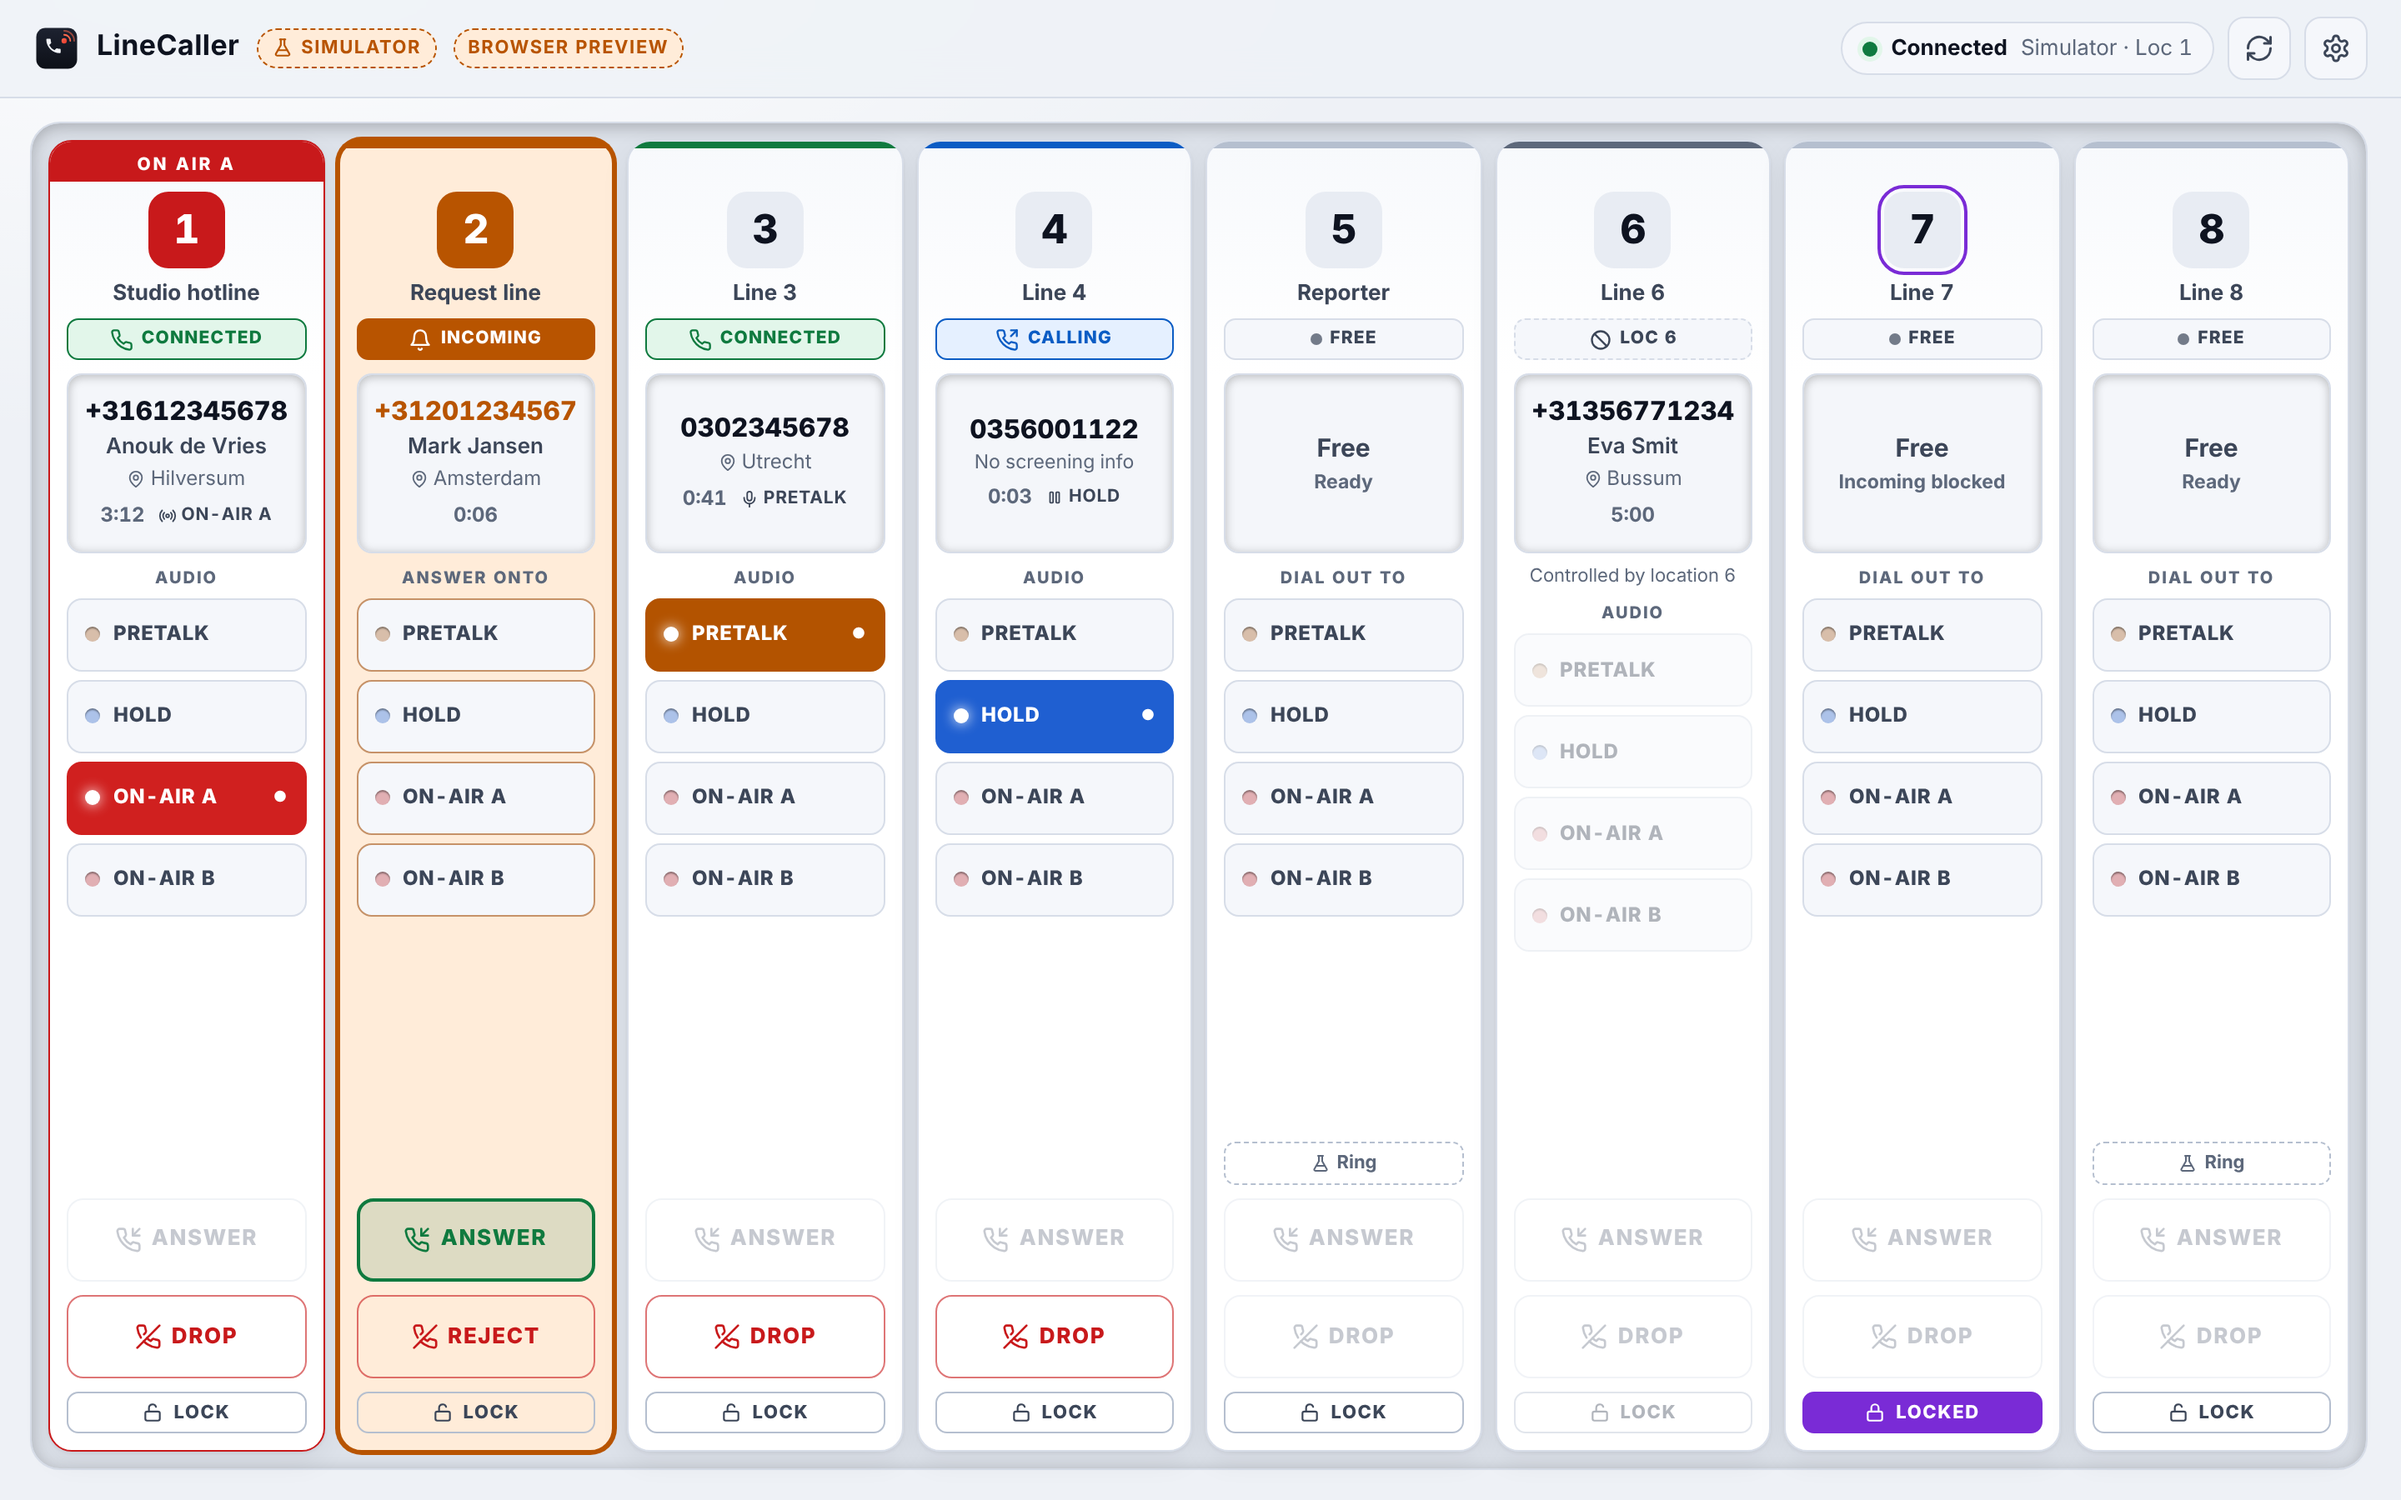
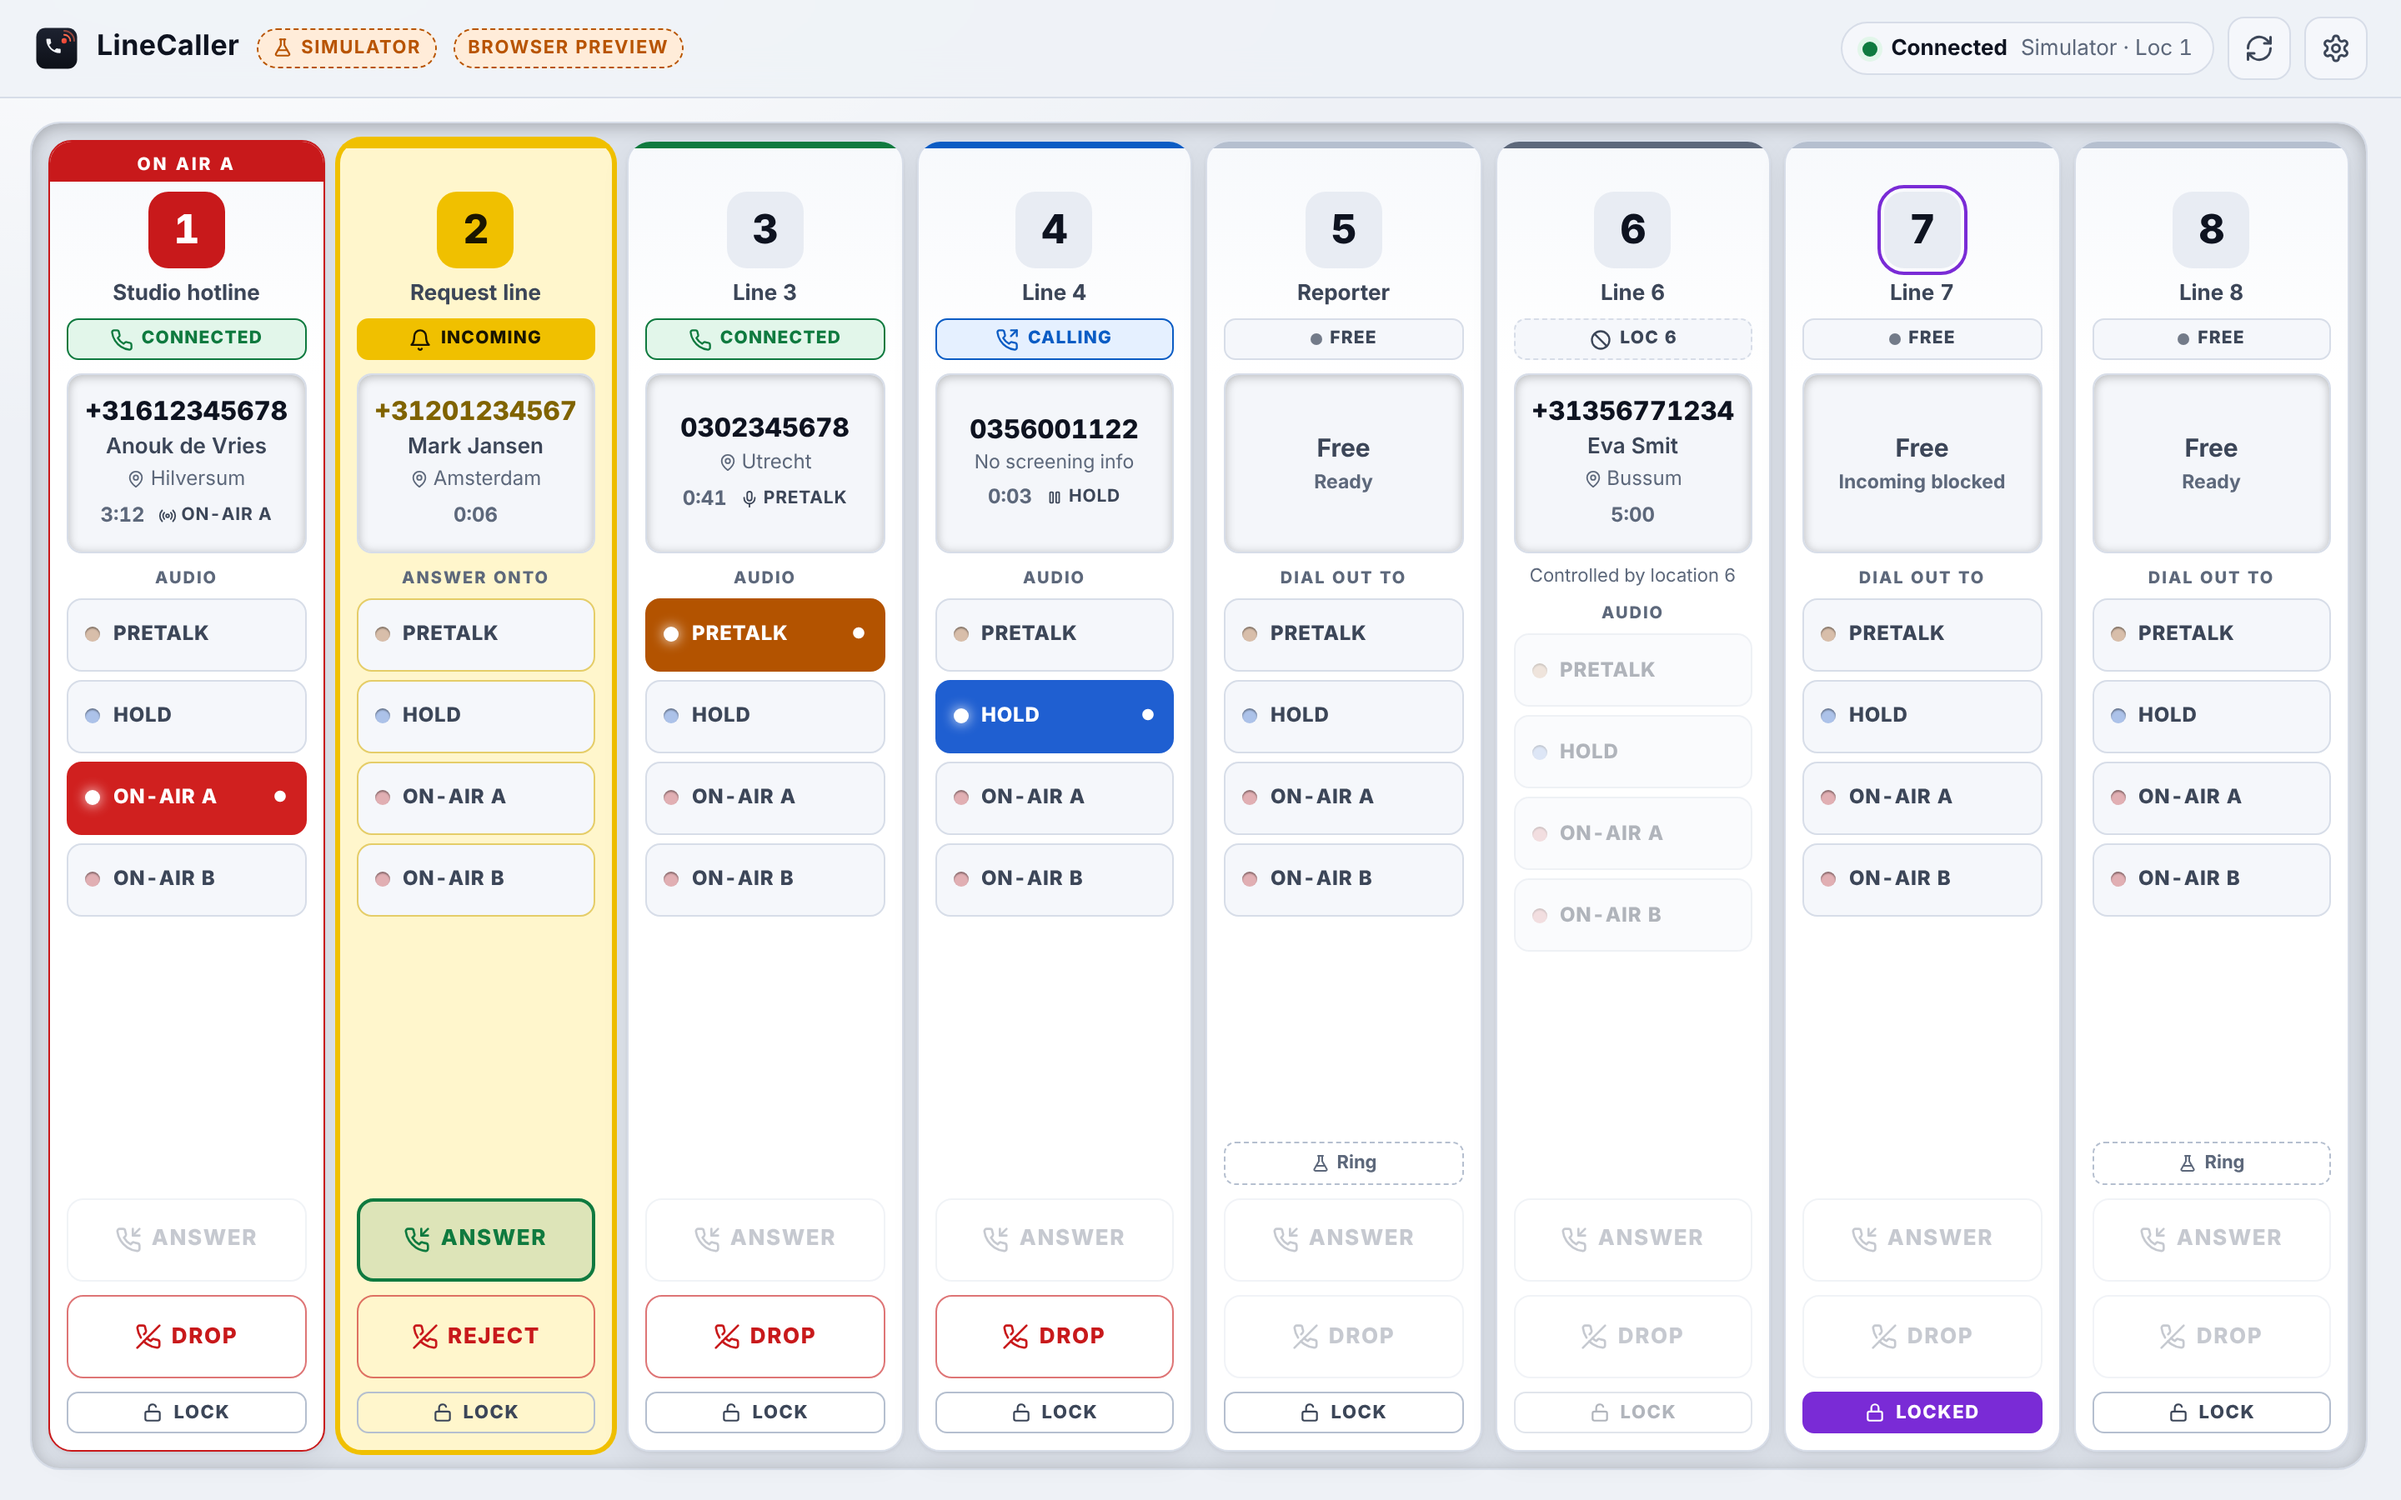
Show incoming calls in yellow instead of orange
Ringing strips, the INCOMING badge, the blink and the caller number now
use yellow so they no longer clash with the orange PRETALK. Warnings
and the SIMULATOR tag keep their orange via a separate --warn token.

Claude-Session: https://claude.ai/code/session_01Pg3akCw8bbN6yfBPaAVaQS

Changed region(s): [[0.125, 0.0933, 0.25, 0.28], [0.1562, 0.9644, 0.25, 0.9956]]

diff --git a/src/styles.css b/src/styles.css
@@ -16,8 +16,12 @@
   --focus: #7cc4ff;
   --shadow: 0 1px 0 rgba(255, 255, 255, 0.03) inset, 0 8px 24px rgba(0, 0, 0, 0.35);
 
-  --ringing: #ff8a1f;
-  --ringing-bg: rgba(255, 138, 31, 0.16);
+  --ringing: #ffd60a;
+  --ringing-bg: rgba(255, 214, 10, 0.14);
+  --ringing-text: #ffd60a;
+  --on-ringing: #141100;
+  --warn: #ff8a1f;
+  --warn-bg: rgba(255, 138, 31, 0.16);
   --rack: #07090d;
   --display: #0b0e14;
   --strip-top: #171c27;
@@ -58,8 +62,12 @@
   --focus: #005fcc;
   --shadow: 0 1px 2px rgba(16, 24, 40, 0.06), 0 6px 18px rgba(16, 24, 40, 0.06);
 
-  --ringing: #b85400;
-  --ringing-bg: #ffecd9;
+  --ringing: #f0c000;
+  --ringing-bg: #fff6cc;
+  --ringing-text: #806300;
+  --on-ringing: #1a1500;
+  --warn: #b85400;
+  --warn-bg: #ffecd9;
   --rack: #dde2ea;
   --display: #f4f6fa;
   --strip-top: #f7f9fc;
@@ -128,7 +136,7 @@ h1, h2, h3 { margin: 0; }
   display: inline-flex; align-items: center; gap: 5px;
   font-size: 11px; font-weight: 700; letter-spacing: 0.8px;
   padding: 3px 8px; border-radius: 999px;
-  color: var(--ringing); background: var(--ringing-bg); border: 1px dashed var(--ringing);
+  color: var(--warn); background: var(--warn-bg); border: 1px dashed var(--warn);
 }
 .top-actions { display: flex; align-items: center; gap: 8px; margin-left: auto; }
 
@@ -246,7 +254,7 @@ h1, h2, h3 { margin: 0; }
 .strip[data-onair] { --accent: var(--onair); border-color: var(--onair); }
 .strip[data-armed] { border-color: var(--danger); }
 
-/* Incoming call: orange on/off blink, 500 ms on / 500 ms off, for as long as the line rings. */
+/* Incoming call: yellow on/off blink, 500 ms on / 500 ms off, for as long as the line rings. */
 .strip[data-phase="ringing"] {
   --accent: var(--ringing);
   animation: ring-blink 1s linear infinite;
@@ -265,12 +273,12 @@ h1, h2, h3 { margin: 0; }
 }
 .strip[data-phase="ringing"] .strip-num { animation: ring-blink-num 1s linear infinite; }
 @keyframes ring-blink-num {
-  0%, 49.9% { background: var(--ringing); color: var(--on-accent); }
+  0%, 49.9% { background: var(--ringing); color: var(--on-ringing); }
   50%, 100% { background: var(--surface-3); color: var(--text); }
 }
 
 /* Preference "Outline the whole channel strip" off: the strip border stays neutral and the
-   status shows only in the coloured status line on top (which blinks for an incoming call). */
+   status shows only in the coloured status line on top (which blinks yellow for an incoming call). */
 :root[data-strip-outline="off"] .strip:not([data-armed]) { border-color: var(--border); border-style: solid; }
 :root[data-strip-outline="off"] .strip::before { height: 6px; }
 :root[data-strip-outline="off"] .strip[data-phase="ringing"] { animation: none; }
@@ -305,7 +313,7 @@ h1, h2, h3 { margin: 0; }
   color: var(--text-2); background: var(--surface-2); border: 1px solid var(--border);
 }
 .badge .dot { width: 7px; height: 7px; border-radius: 50%; background: currentColor; opacity: 0.7; }
-.badge[data-phase="ringing"] { color: var(--on-accent); background: var(--ringing); border-color: var(--ringing); }
+.badge[data-phase="ringing"] { color: var(--on-ringing); background: var(--ringing); border-color: var(--ringing); }
 .badge[data-phase="calling"] { color: var(--calling); background: var(--calling-bg); border-color: var(--calling); }
 .badge[data-phase="connected"] { color: var(--connected); background: var(--connected-bg); border-color: var(--connected); }
 .badge[data-phase="reserved"] { color: var(--reserved); border-style: dashed; border-color: var(--reserved); }
@@ -329,7 +337,7 @@ h1, h2, h3 { margin: 0; }
   color: var(--text); min-width: 0;
 }
 .scr-number span { overflow: hidden; text-overflow: ellipsis; white-space: nowrap; }
-.strip[data-phase="ringing"] .scr-number { color: var(--ringing); }
+.strip[data-phase="ringing"] .scr-number { color: var(--ringing-text); }
 .scr-name { font-size: 13px; font-weight: 600; color: var(--text-2); white-space: nowrap; overflow: hidden; text-overflow: ellipsis; }
 .scr-city { display: flex; align-items: center; justify-content: center; gap: 3px; font-size: 12px; color: var(--text-3); white-space: nowrap; overflow: hidden; }
 .scr-dim { font-size: 11.5px; color: var(--text-3); }
@@ -429,14 +437,14 @@ h1, h2, h3 { margin: 0; }
 @keyframes pulse { 50% { opacity: 0.2; } }
 
 @media (prefers-reduced-motion: reduce) {
-  /* No flashing: a ringing line stays solid orange (still labelled INCOMING with a bell icon). */
+  /* No flashing: a ringing line stays solid yellow (still labelled INCOMING with a bell icon). */
   .strip[data-phase="ringing"] {
     animation: none;
     border-color: var(--ringing);
     background: linear-gradient(180deg, var(--ringing) 0, var(--ringing) 4px, var(--ringing-bg) 4px), var(--surface);
     box-shadow: 0 0 0 2px var(--ringing);
   }
-  .strip[data-phase="ringing"] .strip-num { animation: none; background: var(--ringing); color: var(--on-accent); }
+  .strip[data-phase="ringing"] .strip-num { animation: none; background: var(--ringing); color: var(--on-ringing); }
   :root[data-strip-outline="off"] .strip[data-phase="ringing"] { border-color: var(--border); box-shadow: var(--shadow); background: linear-gradient(180deg, var(--strip-top), var(--surface) 140px); }
   :root[data-strip-outline="off"] .strip[data-phase="ringing"]::before { animation: none; background: var(--ringing); }
   .conn-dot, [data-pending]::before { animation: none !important; }
@@ -558,11 +566,11 @@ input[type="checkbox"] { width: 18px; height: 18px; accent-color: var(--connecte
   box-shadow: 0 10px 30px rgba(0, 0, 0, 0.35); font-size: 14px;
   animation: slide 0.16s ease-out;
 }
-.toast[data-kind="warn"] { border-left-color: var(--ringing); }
+.toast[data-kind="warn"] { border-left-color: var(--warn); }
 .toast[data-kind="error"] { border-left-color: var(--danger); }
 .toast > svg { flex: none; margin-top: 2px; }
 .toast[data-kind="info"] > svg { color: var(--connected); }
-.toast[data-kind="warn"] > svg { color: var(--ringing); }
+.toast[data-kind="warn"] > svg { color: var(--warn); }
 .toast[data-kind="error"] > svg { color: var(--danger); }
 .toast-text { flex: 1; }
 @keyframes slide { from { transform: translateY(8px); opacity: 0; } }

diff --git a/README.md b/README.md
@@ -22,8 +22,8 @@ THipPro's own configuration.
 * Responsive: strips share the window width; when they no longer fit (many lines, small window,
   phone width) the console scrolls sideways with snap, like scrolling a bank.
 * Clear states with text, icon and colour: FREE, INCOMING, CALLING, CONNECTED, RESERVED,
-  IN USE (location N), UNKNOWN. An incoming line **blinks orange, 500 ms on / 500 ms off**, for as
-  long as it rings (solid orange if the OS asks for reduced motion). ON AIR lines get a red tally.
+  IN USE (location N), UNKNOWN. An incoming line **blinks yellow, 500 ms on / 500 ms off**, for as
+  long as it rings (solid yellow if the OS asks for reduced motion). ON AIR lines get a red tally.
 * Caller number, name and city from the THipPro's screening information, with a call timer.
 * Per line: PRETALK, HOLD, ON-AIR A, ON-AIR B, ANSWER, DROP, LOCK.
   * **LOCK locks the line for incoming calls** (Remote Light "Set Lock Line"): new calls are
